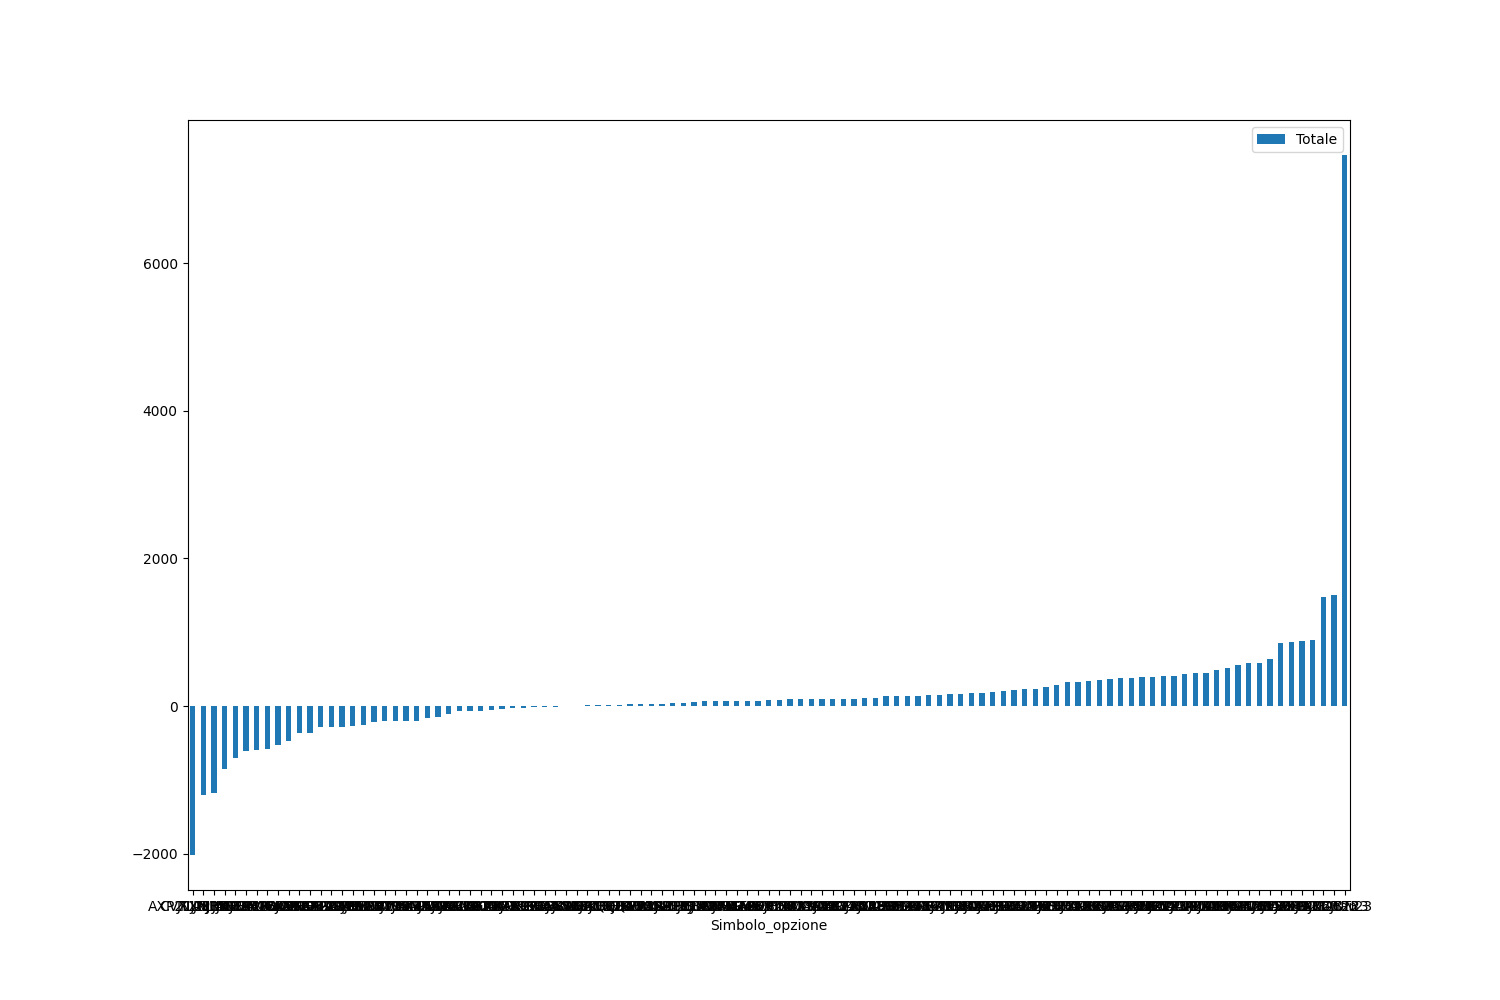
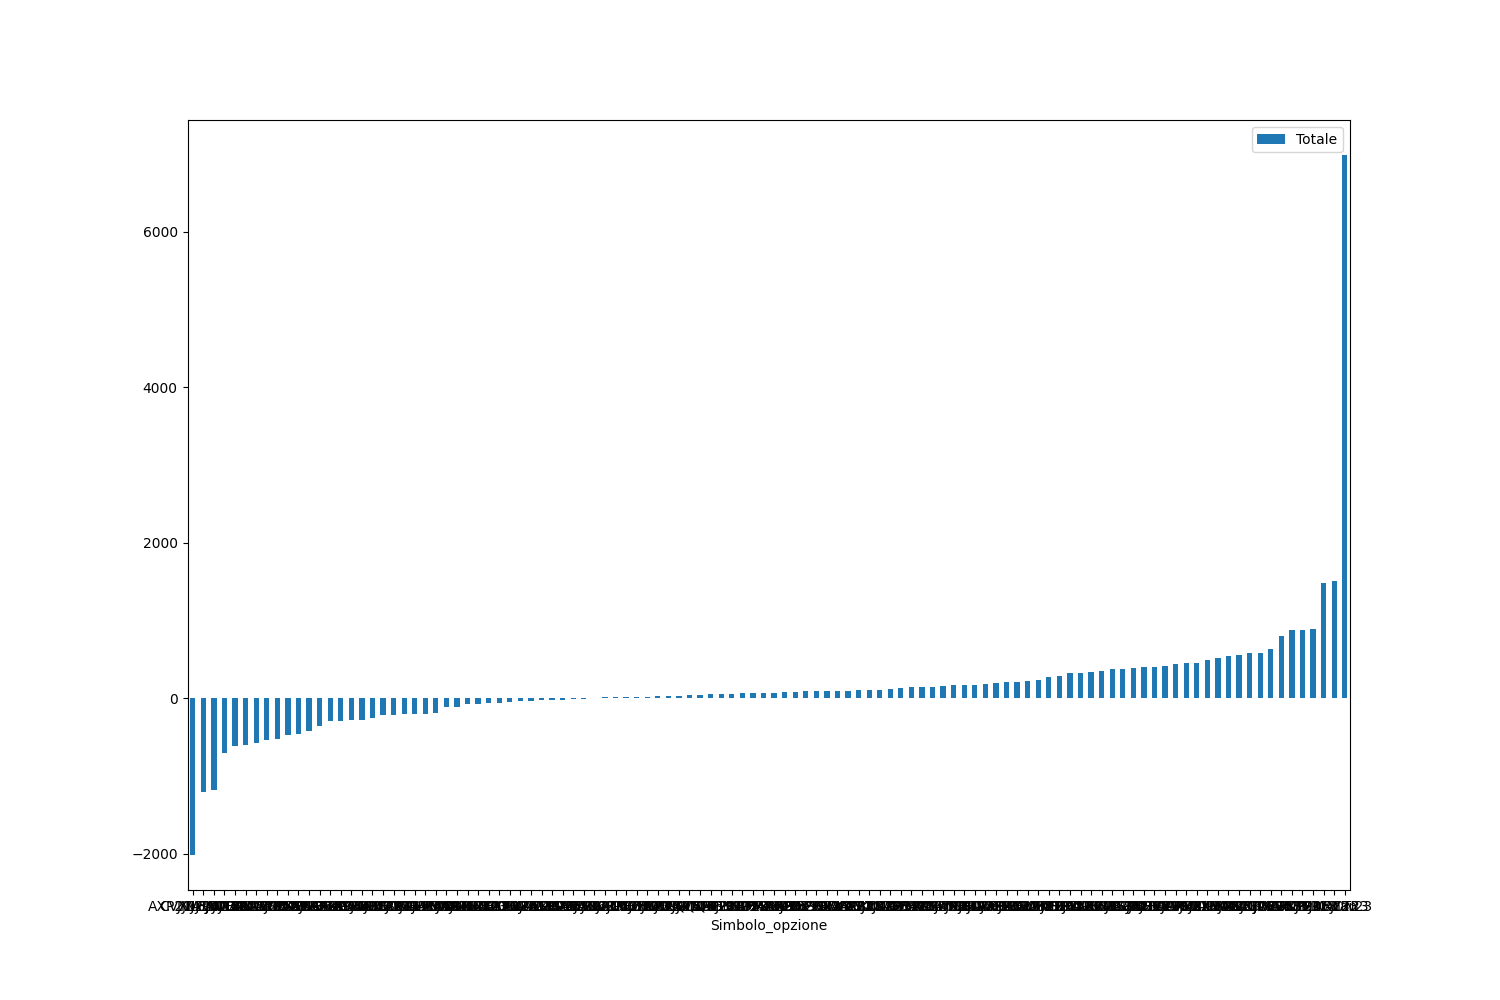
gg

diff --git a/mysite/ib/templates/index9.html b/mysite/ib/templates/index9.html
@@ -1,0 +1,66 @@
+<!DOCTYPE html>
+<html lang="en">
+<head>
+    <meta charset="UTF-8">
+    <meta name="viewport" content="width=device-width, initial-scale=1.0">
+    <title>Document</title>
+</head>
+<title>Bootstrap demo</title>
+<link href="https://cdn.jsdelivr.net/npm/bootstrap@5.2.3/dist/css/bootstrap.min.css" rel="stylesheet"
+  integrity="sha384-rbsA2VBKQhggwzxH7pPCaAqO46MgnOM80zW1RWuH61DGLwZJEdK2Kadq2F9CUG65" crossorigin="anonymous">
+
+<body>
+
+    <h1>Benvenuto nella pagina di analisi dei trades</h1>
+    <!--vorrei fare una combo box  per richiedere un dato con csrf  token-->
+
+    
+    <form action="/index29" method="post"      <form method="post">{% csrf_token %}  class="btn btn-primary btn-lg active" role="button" aria-pressed="true">analisi trades di un
+        determinato mese </a>
+    
+  
+      <label for="data_scadenza">Scegli una scadenza:</label>
+  
+      <select name="data_scadenza" id="data_scadenza">
+        <option value="Tutte">Tutte</option>
+        <option value="17FEB23">17FEB23</option>
+        <option value="Apr15'22">Apr15'22</option>  
+        <option value="May20'22">May20'22</option>
+        <option value="Jun17'22">Jun17'22</option>
+        <option value="Jul15'22">Jul15'22</option>
+        <option value="18AUG23">18AUG23</option>
+        <option value="Sep15'23">Sep15'23</option>
+        <option value="Oct20'23">Oct20'23</option>
+        <option value="Nov17'23">Nov17'23</option>
+        <option value="Dec15'23">Dec15'23</option>
+        <option value="Jan19'23">Jan19'23</option>
+        <option value="Feb16'23">Feb16'23</option>
+        <option value="Mar15'23">Mar15'23</option>
+      </select>
+  
+
+      <input type="submit" value="Submit">
+
+      </form>
+
+      <h1>Benvenuto nella pagina di analisi dei trades</h1>
+
+
+
+
+
+
+
+
+
+
+
+
+   
+
+
+</body>
+</html>
+
+
+

diff --git a/mysite/ib/templates/index.html b/mysite/ib/templates/index.html
@@ -84,24 +84,9 @@
 
     <a href="/index25" class="btn btn-primary btn-lg active" role="button" aria-pressed="true">analisi trades di un
       determinato mese </a>
+  
 
-    <label for="data_scadenza">Scegli una scadenza:</label>
 
-    <select name="data_scadenza" id="data_scadenza">
-      <option value="Tutte">Tutte</option>
-      <option value="Apr15'22">Apr15'22</option>  
-      <option value="May20'22">May20'22</option>
-      <option value="Jun17'22">Jun17'22</option>
-      <option value="Jul15'22">Jul15'22</option>
-      <option value="Aug18'22">Aug19'22</option>
-      <option value="Sep15'23">Sep15'23</option>
-      <option value="Oct20'23">Oct20'23</option>
-      <option value="Nov17'23">Nov17'23</option>
-      <option value="Dec15'23">Dec15'23</option>
-      <option value="Jan19'23">Jan19'23</option>
-      <option value="Feb16'23">Feb16'23</option>
-      <option value="Mar15'23">Mar15'23</option>
-    </select>
 
 
     <br></br>

diff --git a/mysite/ib/views.py b/mysite/ib/views.py
@@ -620,8 +620,13 @@ def analisi_bilanciamento_delta_titolo_scadenza(request):
     # raggruppa il dataframe per il campo "campo1" e somma i valori per ogni gruppo
     df_grouped = df4.groupby('Simbolo_scadenza')['Deltariga'].sum().reset_index()
 
+    # seleziona solo le righe con valori maggiori di 35 in 'Deltariga'
+    df_grouped.sort_values(by=['Deltariga'], inplace=True, ascending=False)
+
+
+
     
-    df_grouped.sort_values(by=['Simbolo_scadenza'], inplace=True, ascending=True)
+    #df_grouped.sort_values(by=['Simbolo_scadenza'], inplace=True, ascending=True)
    
     df_grouped.loc['Totale Delta'] = df_grouped.sum(numeric_only=True, axis=0)
 
@@ -1232,22 +1237,33 @@ def analisi_operazioni(request):
 
 
 def analisi_operazioni_di_un_determinato_mese(request):
-    df = pd.read_csv('Analisi_operazioni.csv')
+    template = loader.get_template('index9.html')
+
+
+    return render(request, "index9.html")
+
+
+def analisi_operazioni_di_un_determinato_mese_esecuzione(request):
+    template = loader.get_template('index4.html')
+
+    df = pd.read_csv('Analisi_trade.csv')
 
     # estraggo il primo campo di simbolo
-    df['Simbolo_solo'] = df['Simbolo'].str.split(' ').str[0]
-
-    # estraggo un campo che mi prende il secondo campo di simbolo
-    df['Simbolo_solo_mese'] = df['Simbolo'].str.split(' ').str[1]
     
-    # estraggo quelli che in simbolo_solo_mese = a 21JUL23
-    #df = df[df['Simbolo_solo_mese'] == '18AUG23']
+    print(df)
     
+    # estraggo quelli che in simbolo_solo_mese hanno il valore che c'è nella combobox data_scadenza
+    # estraggo il valore selzionato nella combobox
+    data_scadenza = request.POST.get('data_scadenza')
+    print("questa è la data scadenza")
+    print(data_scadenza)
+    # estraggo quelli che in simbolo_solo_mese hanno il valore che c'è nella combobox data_scadenza
+    df = df[df['Simbolo_solo_mese'] == data_scadenza]
+    # a simbolo_solo_mese elimino tutti i caratteri a destra e a sinistra che non sono blank
+    df['Simbolo_solo_mese'] = df['Simbolo_solo_mese'].str.strip()
+      
     
-    # escludo dal dataframe le righe che sono di tipo Subtotal
-    df = df[df['Header'] != 'Subtotal']
-    # escludo dal dataframe le righe che sono di tipo Total
-    df = df[df['Header'] == 'Data']
+   
 
     print(df)
 
@@ -1259,8 +1275,9 @@ def analisi_operazioni_di_un_determinato_mese(request):
           
     print(df_grouped)
 
-    trades = df_grouped
+    trades = df
    
+    return render_to_response('index.html', context_instance=RequestContext(request))
     return render(request, "index4.html", {'trades': trades})
 
 

diff --git a/mysite/ib/urls.py b/mysite/ib/urls.py
@@ -39,6 +39,7 @@ urlpatterns = [
     path('index23', views.analisi_operazioni), 
     path('index25', views.analisi_operazioni_di_un_determinato_mese),
     path('index26', views.analisi_opzioni_con_il_minore_Theta),
+    path('index29', views.analisi_operazioni_di_un_determinato_mese_esecuzione),
     
    
     
